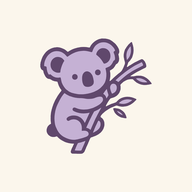
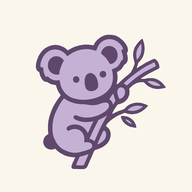
Icônes : koala agrandi (70 % du carré) et décalé vers le bas à droite pour équilibrer la masse visuelle

Changed region(s): [[0.1875, 0.1562, 0.875, 0.9062], [0.3125, 0.3125, 0.3438, 0.375]]

diff --git a/sw.js b/sw.js
@@ -7,7 +7,7 @@
 // Les données (API Supabase) ne passent jamais par ici : c'est app.js qui en
 // garde une copie sur l'appareil.
 // ⚠ Augmenter CACHE à chaque changement de la liste SHELL.
-const CACHE = "kenda-v15";
+const CACHE = "kenda-v16";
 const FONT_CACHE = "kenda-fonts";
 const NETWORK_TIMEOUT = 3000;
 const SHELL = [
